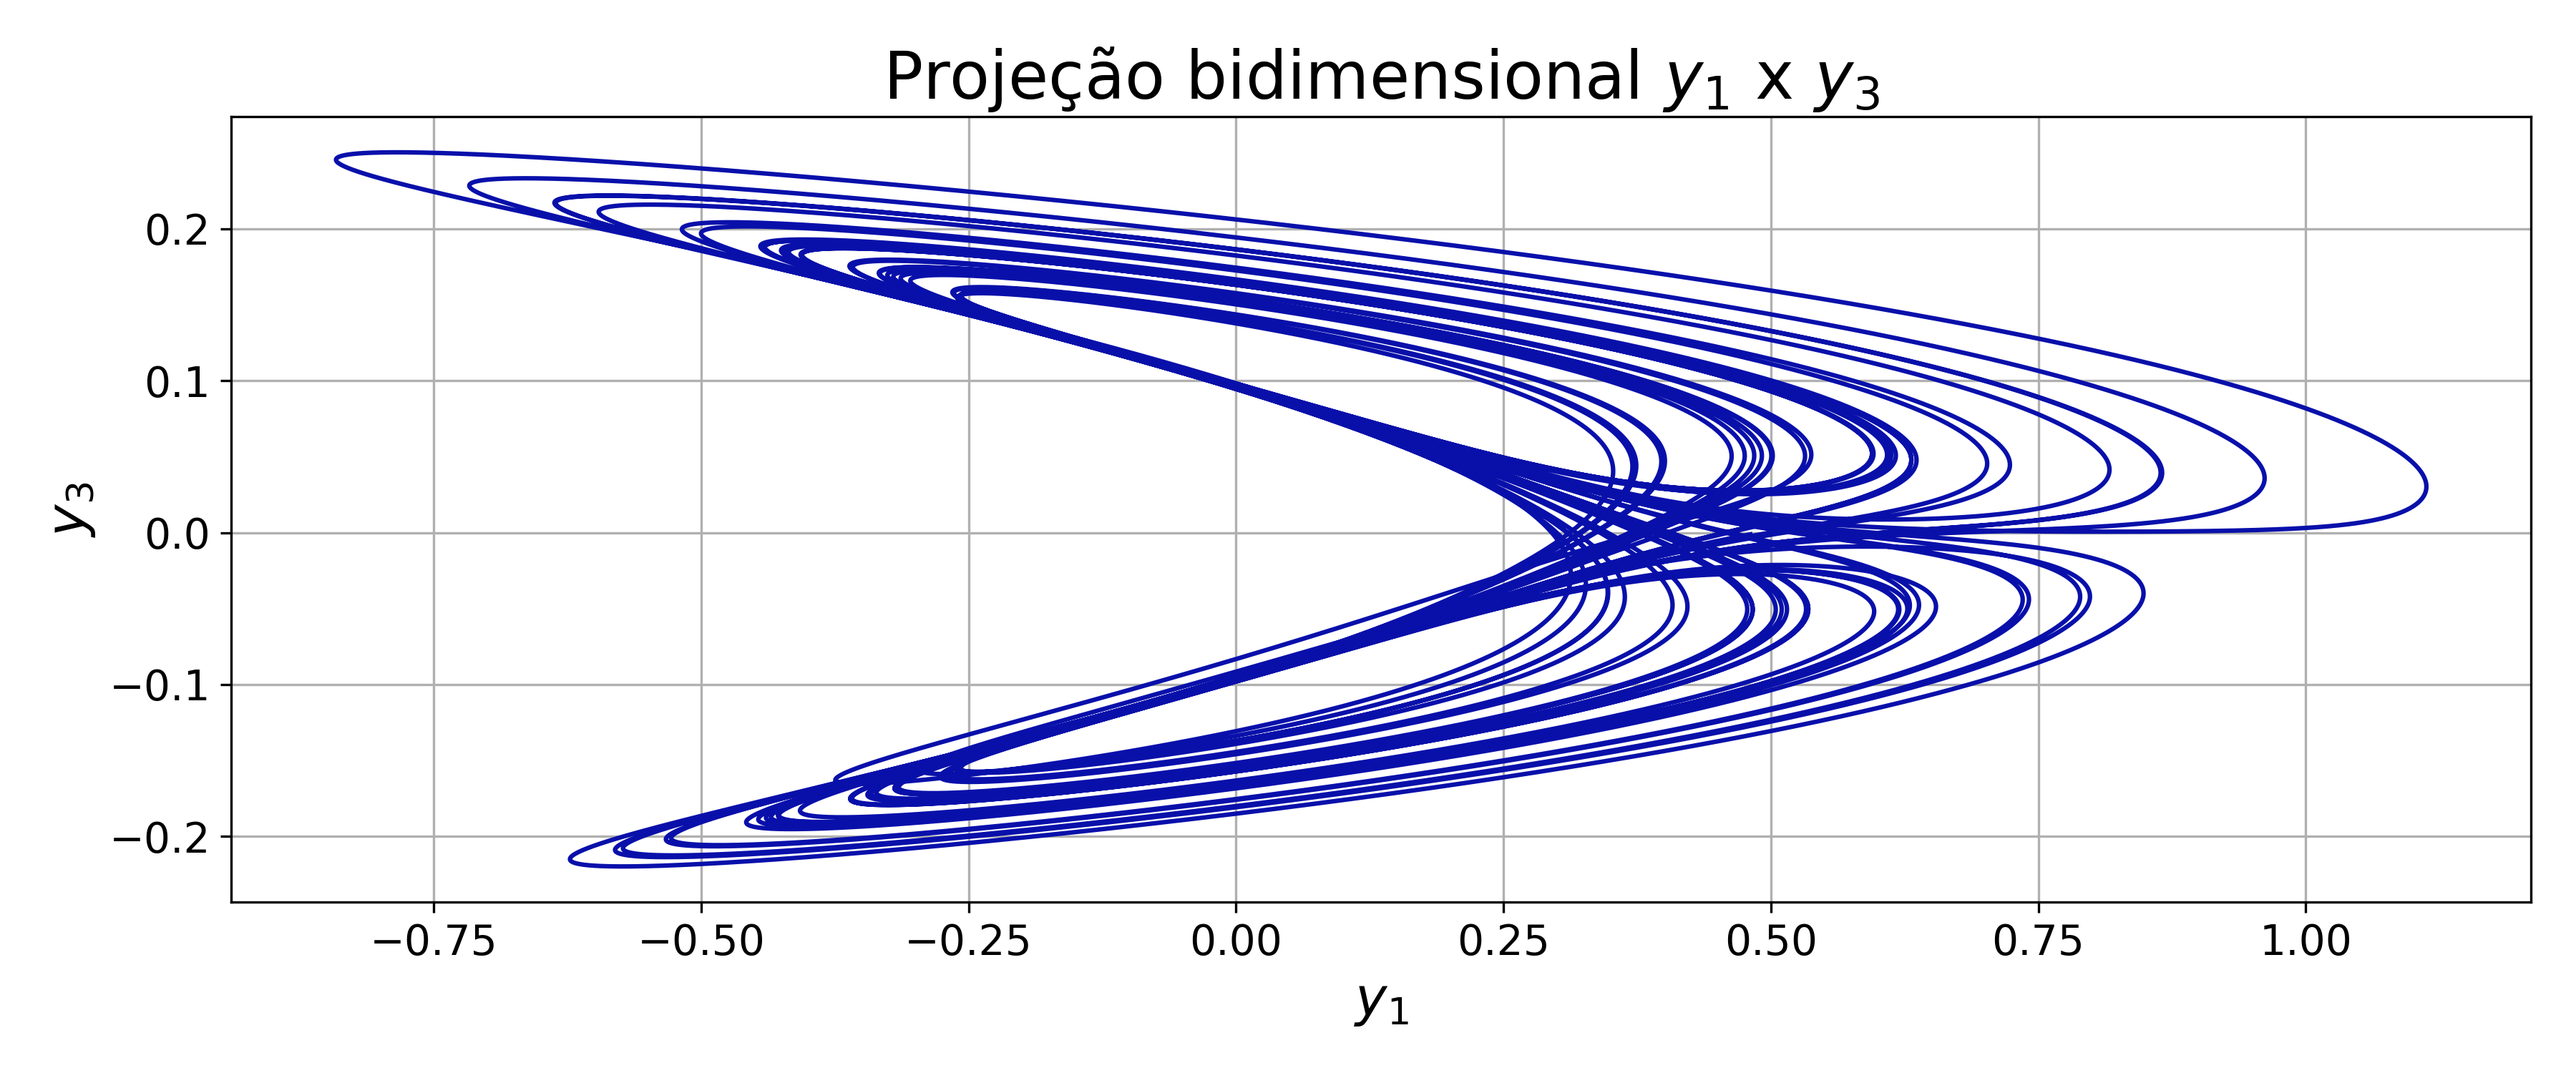
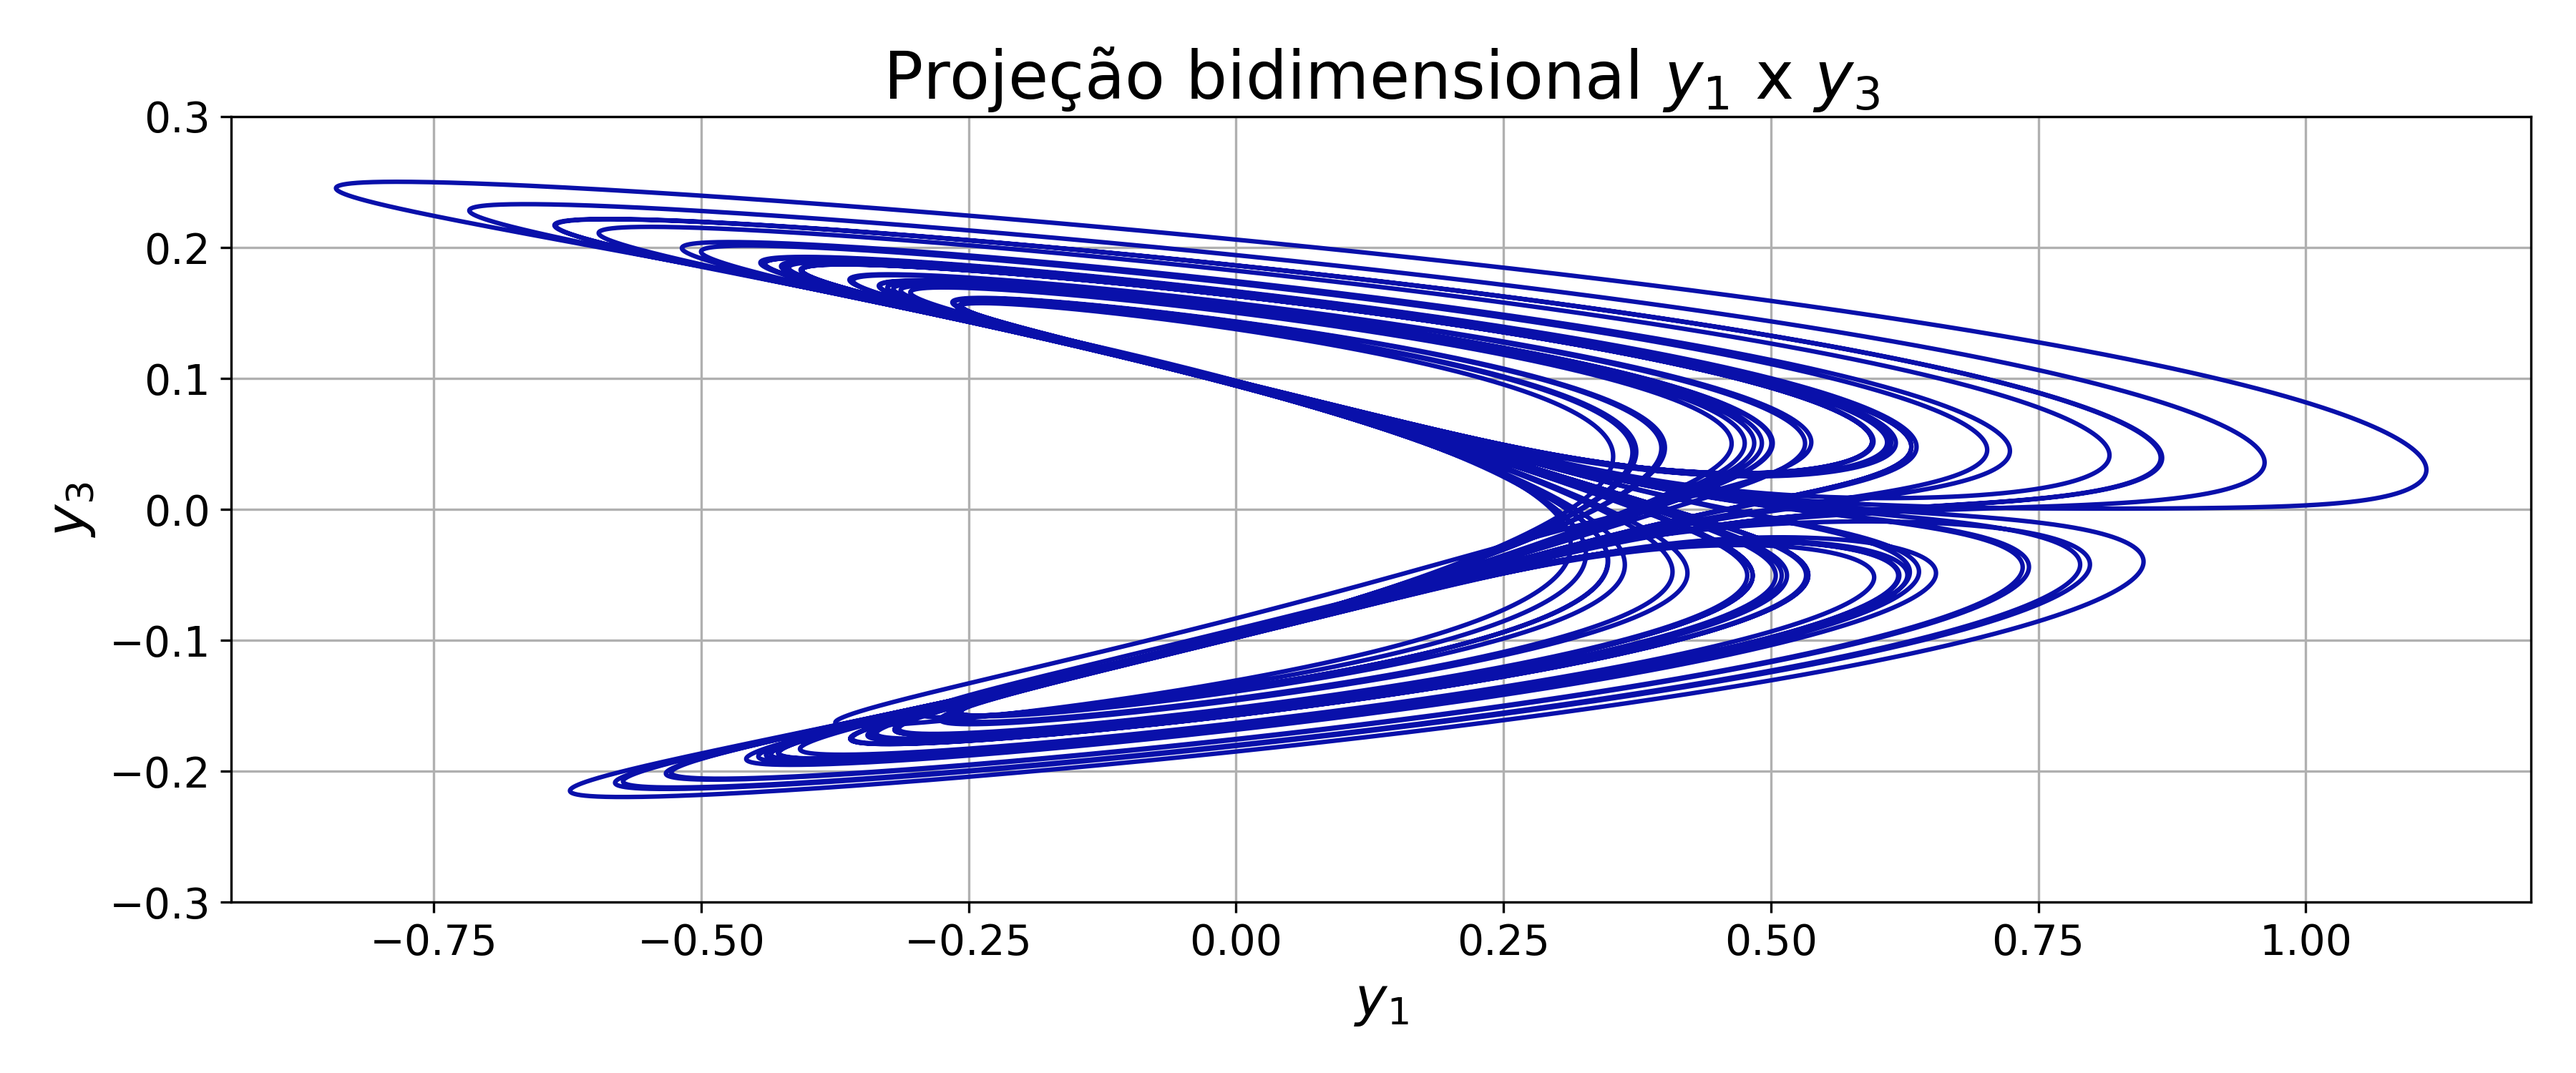
atualização do limite y para melhor visualização das projeções bidimensionais.

diff --git a/06_LORENZ_80/plot.py b/06_LORENZ_80/plot.py
@@ -53,6 +53,7 @@ def plot_y2y3(df, model_type):
     plt.figure(figsize=(12, 5))
     plt.plot(y3, y2, color="#0910aa")
     plt.title("Projeção bidimensional $y_3$ x $y_2$")
+    plt.ylim(-1.5, 1.5)
     plt.xlabel("$y_3$")
     plt.ylabel("$y_2$")
     plt.grid(True)
@@ -71,6 +72,8 @@ def plot_y1y3(df, model_type):
     plt.figure(figsize=(12, 5))
     plt.plot(y1, y3, color="#0910aa")
     plt.title("Projeção bidimensional $y_1$ x $y_3$")
+    # plt.ylim(-0.6, 0.6) #PE MODEL
+    plt.ylim(-0.3, 0.3) #QG / BE MODEL
     plt.xlabel("$y_1$")
     plt.ylabel("$y_3$")
     plt.grid(True)
@@ -89,6 +92,7 @@ def plot_y1y2(df, model_type):
     plt.figure(figsize=(12, 5))
     plt.plot(y1, y2, color="#0910aa")
     plt.title("Projeção bidimensional $y_1$ x $y_2$")
+    plt.ylim(-1.5, 1.5)
     plt.xlabel("$y_1$")
     plt.ylabel("$y_2$")
     plt.grid(True)

diff --git a/06_LORENZ_80/initial_conditions.py b/06_LORENZ_80/initial_conditions.py
@@ -10,12 +10,11 @@ x0 = [x1, 0, 0]
 y0 = [y1, -(10 ** (-5)), 0]
 z0 = [z1, 10 ** (-5), 0]
 
-"""
-# DEFAULT
 
+# DEFAULT
+"""
 x0 = [0.1,0.1,0.1]
 y0 = [0.1,0.1,0.1]
 z0 = [0.1,0.1,0.1]
 """
-
 days = 400
